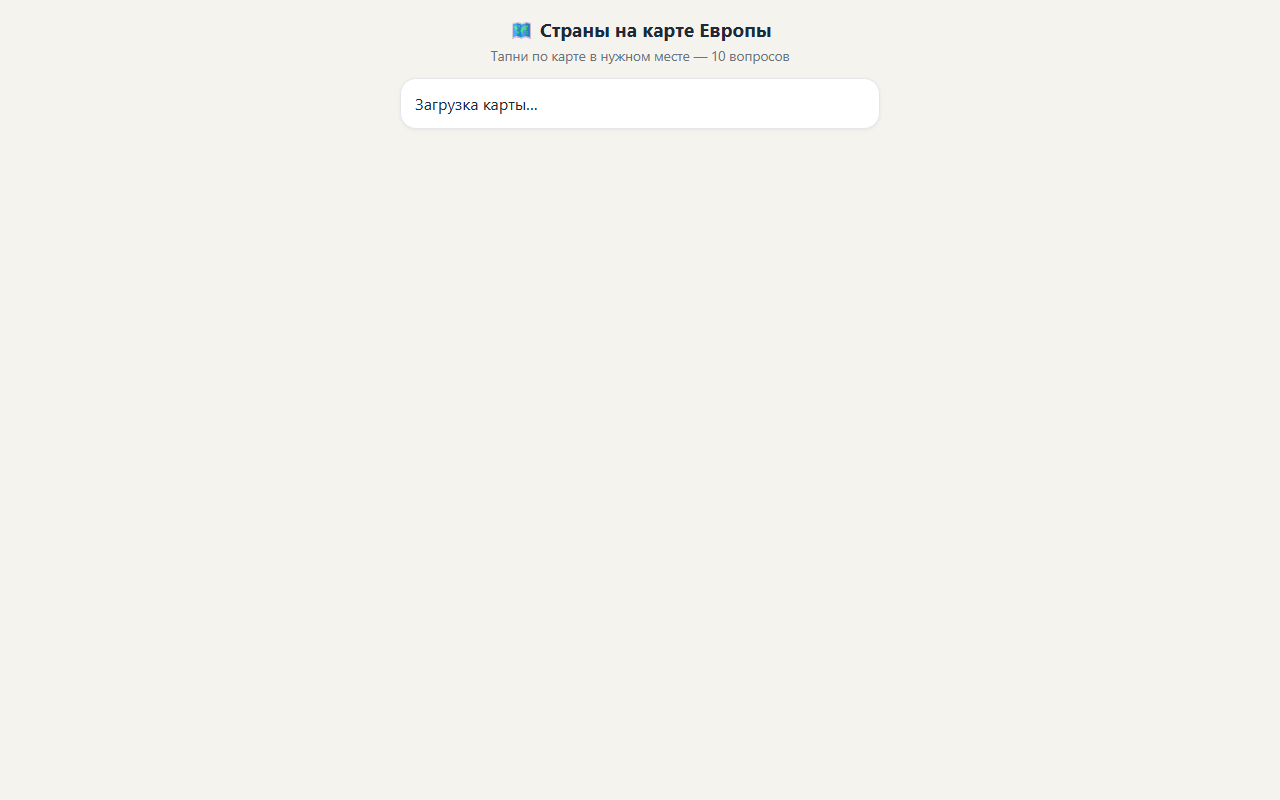
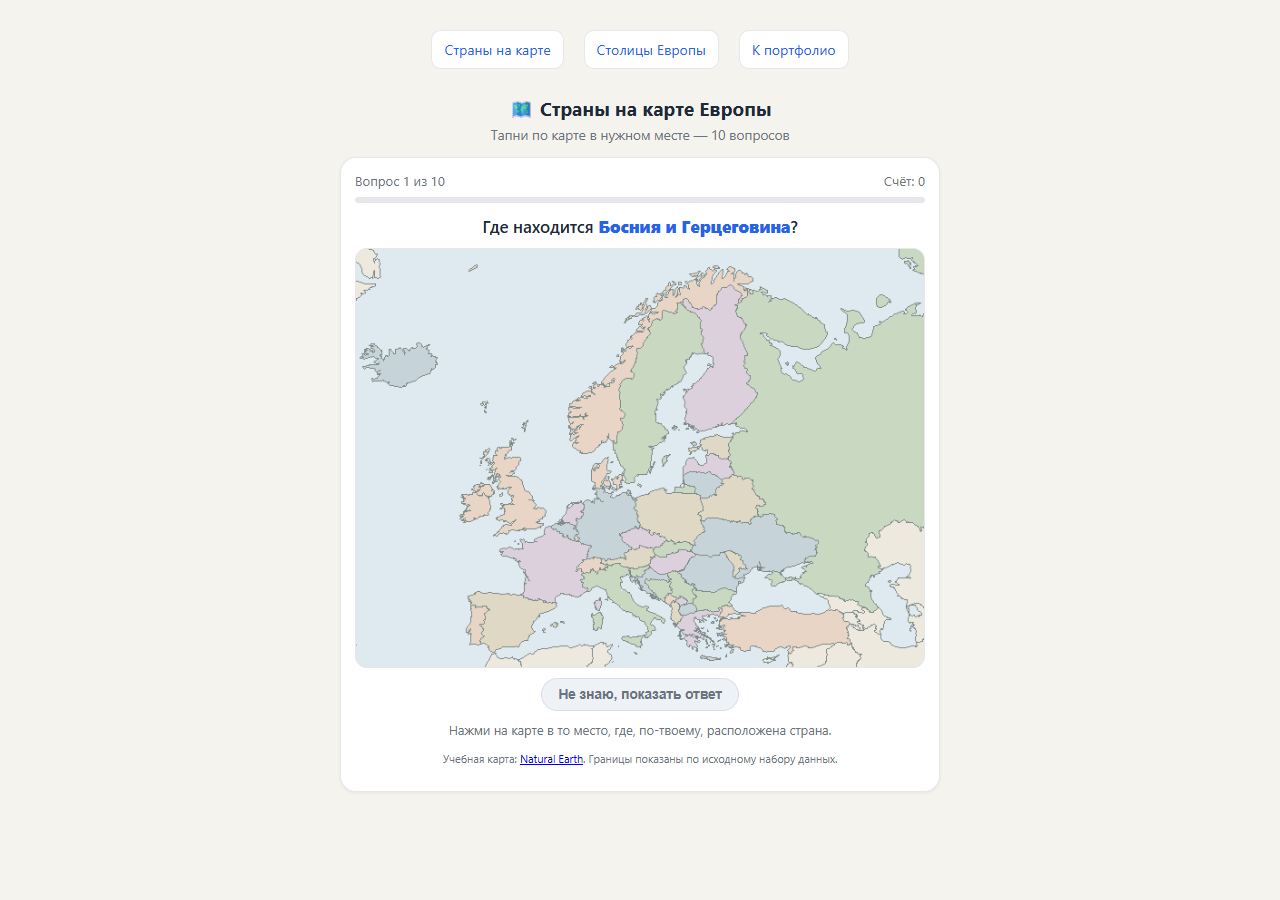
Link three standalone demos and refresh portfolio previews

diff --git a/projects.js b/projects.js
@@ -29,3 +29,10 @@ projects.find(p=>p.id==='repair').video='assets/video/repair-review.mp4';
 projects.find(p=>p.id==='repair').videoLabel='Запись кликабельного прототипа RepairCalc на демонстрационных данных';
 projects.find(p=>p.id==='alfa').video='assets/video/alfa-review.mp4';
 projects.find(p=>p.id==='alfa').videoLabel='Видеоразбор пути заявки и сохранённого экрана прототипа; это не запись работающего банковского сервиса';
+
+for(const [id,repo] of [['sprouts','sprouts'],['geo','europe-geography'],['minprav','minprav-1984']]){
+ const p=projects.find(p=>p.id===id);p.url='https://shalombaby666.github.io/'+repo+'/';p.github='https://github.com/shalombaby666/'+repo;p.status='Демо';
+}
+Object.assign(projects.find(p=>p.id==='sprouts'),{description:'Автономное приложение для английских слов: две колоды, 76 слов, повторение и статистика.',tags:['JavaScript','localStorage','Карточки'],result:'Опубликована автономная версия без серверной базы. Прогресс сохраняется в браузере посетителя и не синхронизируется между устройствами.',decisions:['Две колоды: общая лексика и Tech & IT.','Повторение, выбор ответа и ввод перевода.','Локальное сохранение прогресса без аккаунта.']});
+Object.assign(projects.find(p=>p.id==='geo'),{description:'Два браузерных теста: найти страну на карте Европы и выбрать её столицу. Случайные вопросы, результат и повторный запуск.',result:'Оба теста доступны на GitHub Pages. Карта и маска кликов восстановлены из Natural Earth; работают без базы данных.',decisions:['Случайная выборка и перемешивание вопросов.','Проверка попадания по маске территории страны.','Обратная связь, итоговый счёт и повторная попытка.']});
+Object.assign(projects.find(p=>p.id==='minprav'),{result:'Словарь опубликован на GitHub Pages: поиск, разделы, визуальный архив и варианты оформления. Изображения восстановлены локально.',decisions:['Словарная структура, разделы и поиск.','Визуальный архив с подписями.','Варианты оформления и звук по желанию посетителя.']});

diff --git a/README.md b/README.md
@@ -21,6 +21,10 @@
 
 **[Все 15 проектов](https://shalombaby666.github.io/#work)** · [Шпаргалки аналитика](https://shalombaby666.github.io/analyst-notes.html)
 
+### Учебные веб-проекты
+
+[Sprouts — английские карточки](https://shalombaby666.github.io/sprouts/) · [География Европы — два теста](https://shalombaby666.github.io/europe-geography/) · [Минправ — словарь «1984»](https://shalombaby666.github.io/minprav-1984/)
+
 ### Можно поиграть
 
 [SandFox](https://shalombaby666.github.io/SandFox/) · [Two Gamers](https://shalombaby666.github.io/two-gamers/) · [Starman’s Stare](https://shalombaby666.github.io/starmans-stare/) · [Snow Running](https://shalombaby666.github.io/snow-running/)
